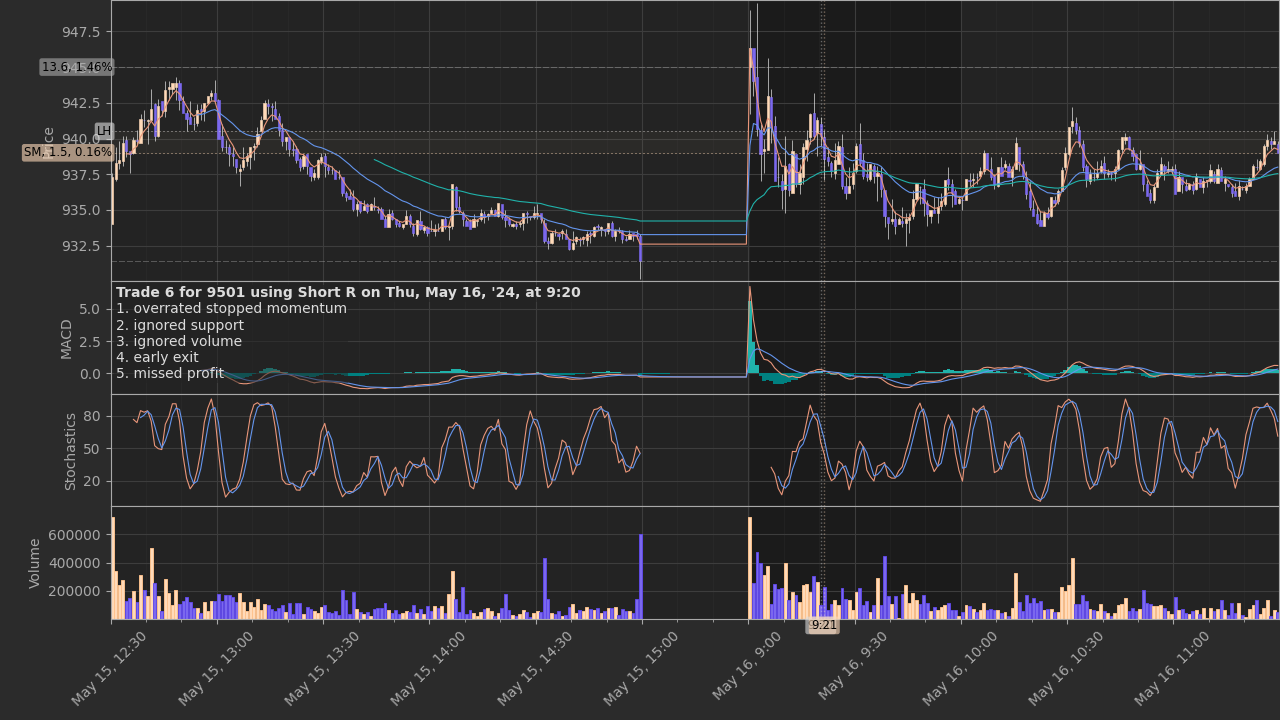
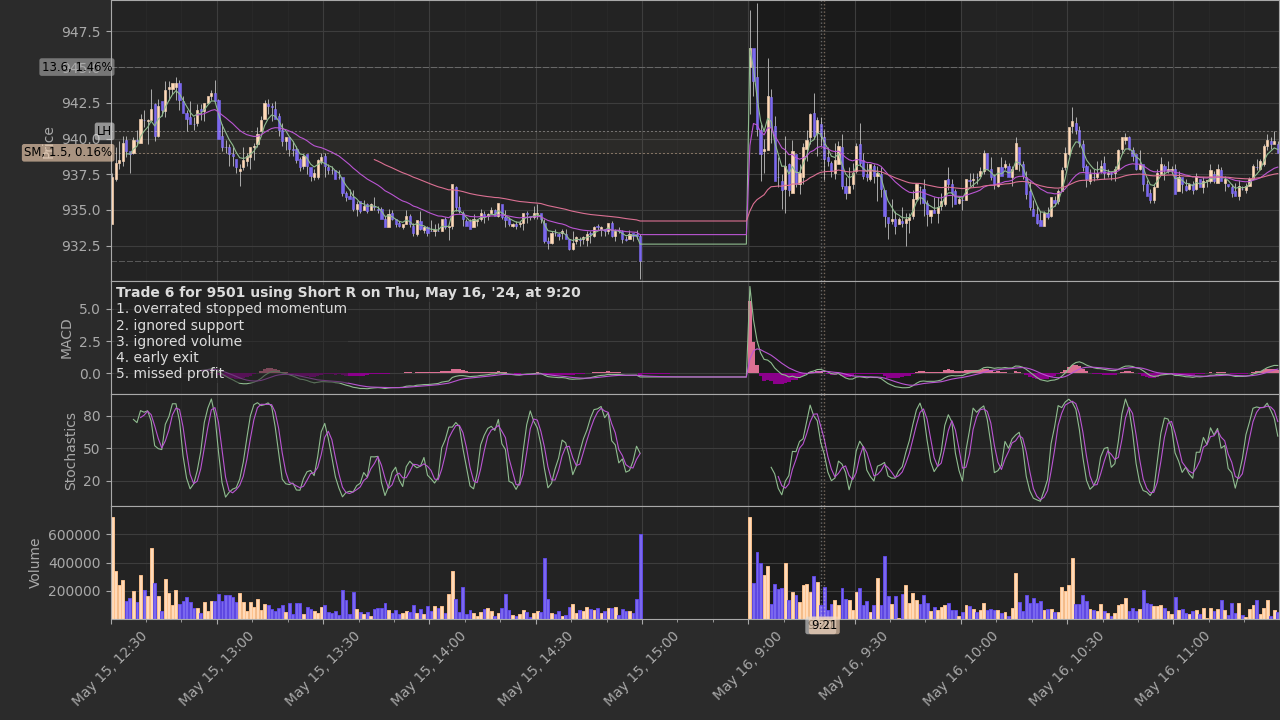
Modify mavcolors

diff --git a/styles/ametrine.py b/styles/ametrine.py
@@ -16,10 +16,10 @@ style = {'style_name': 'ametrine',
                                      'down': 'mediumslateblue'},
                           'vcdopcod': False,
                           'alpha': 1.0},
-         'mavcolors': ['darksalmon',
-                       'cornflowerblue',
-                       'lightseagreen',
-                       'teal'],
+         'mavcolors': ['darkseagreen',
+                       'mediumorchid',
+                       'palevioletred',
+                       'darkmagenta'],
          'y_on_right': False,
          'gridcolor': '#3d3d3d',
          'gridstyle': '-',
